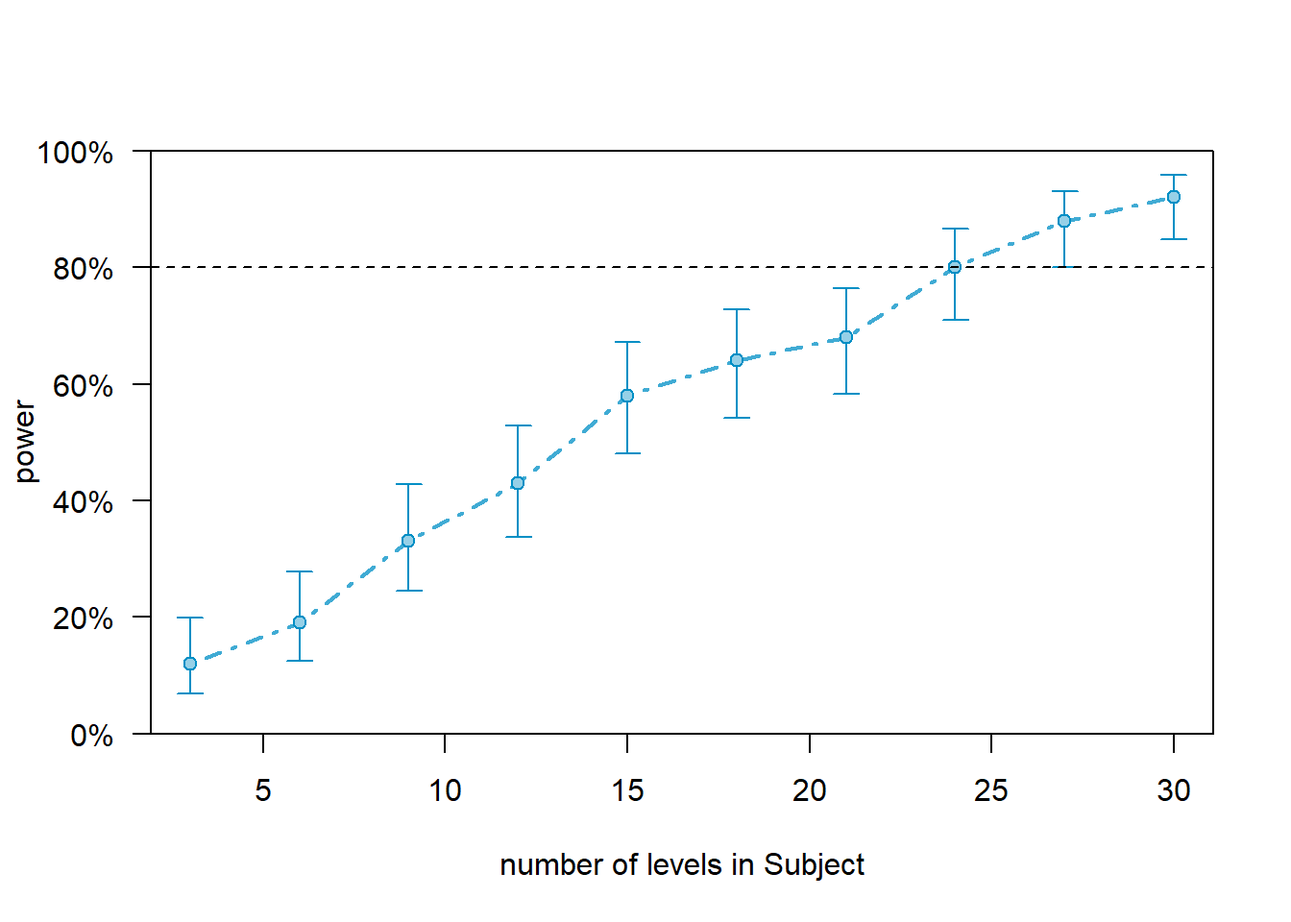
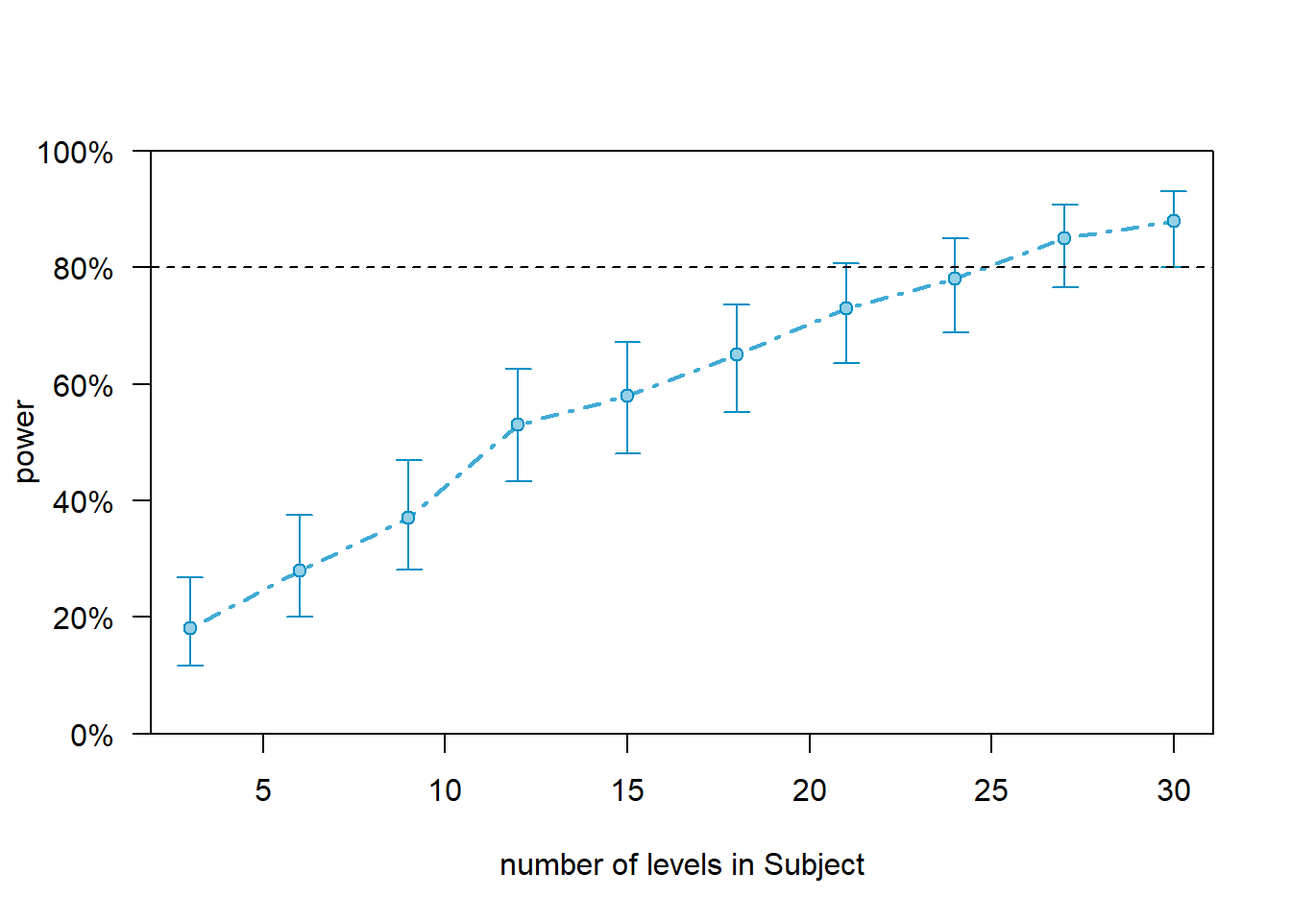
power analysis update

diff --git a/pwr.html b/pwr.html
@@ -14,7 +14,7 @@
 
 <meta name="author" content="Martin Schweinberger" />
 
-<meta name="date" content="2021-11-17" />
+<meta name="date" content="2021-12-19" />
 
 <title>Power Analysis in R</title>
 
@@ -537,6 +537,9 @@ div.tocify {
     <li>
       <a href="tagging.html">Tagging and Parsing</a>
     </li>
+    <li>
+      <a href="txtsum.html">Automated Text Summarization</a>
+    </li>
   </ul>
 </li>
 <li class="dropdown">
@@ -615,7 +618,7 @@ div.tocify {
 
 <h1 class="title toc-ignore">Power Analysis in R</h1>
 <h4 class="author">Martin Schweinberger</h4>
-<h4 class="date">2021-11-17</h4>
+<h4 class="date">2021-12-19</h4>
 
 </div>
 
@@ -634,20 +637,19 @@ div.tocify {
 <p><img src="https://slcladal.github.io/images/uq1.jpg" width="100%" /></p>
 <div id="introduction" class="section level1 unnumbered">
 <h1>Introduction</h1>
-<p>This tutorial introduces power analysis using R. The entire R markdown document for this tutorial can be downloaded <a href="https://slcladal.github.io/pwr.Rmd">here</a>. If you want to render the Rmarkdown notebook on your machine, i.e. knitting the document to a html or pdf file, you need to make sure that you have R installed and you also need to download the <a href="https://slcladal.github.io/bibliography.bib">bibliography file</a> and store it in the same folder where you store the Rmd file.</p>
-<p>The basis for the present tutorial is <span class="citation">Green and MacLeod (<a href="#ref-green2016simr" role="doc-biblioref">2016</a>)</span> (which you can find <a href="https://besjournals.onlinelibrary.wiley.com/doi/full/10.1111/2041-210X.12504">here</a>). <span class="citation">Green and MacLeod (<a href="#ref-green2016simr" role="doc-biblioref">2016</a>)</span> is a highly recommendable and thorough tutorial on performing power analysis in R. Recommendable literature on this topic are, e.g. <span class="citation">Arnold et al. (<a href="#ref-arnold2011simulation" role="doc-biblioref">2011</a>)</span> and <span class="citation">Johnson et al. (<a href="#ref-johnson2015power" role="doc-biblioref">2015</a>)</span> and <a href="https://www.journalofcognition.org/articles/10.5334/joc.10/">this tutorial</a>.</p>
+<p>This tutorial introduces power analysis using R. Power analysis is a method primarily used to determine the appropriate sample size for empirical studies.</p>
+<p>This tutorial is aimed at intermediate and advanced users of R with the aim of showcasing how to perform power analyses for mixed-effect models generated with the <code>lme4</code> package in R. The aim is not to provide a fully-fledged analysis but rather to show and exemplify a handy method for estimating the power of experimental and observational designs and how to implement this in R.</p>
 <div class="warning" style="padding:0.1em; background-color:#f2f2f2; color:#51247a">
 <span>
 <p style="margin-top:1em; text-align:center">
-<strong>Power analysis is a method primarily used to determine the appropriate sample size for empirical studies.</strong>
+The entire R Notebook for the tutorial can be downloaded <a href="https://slcladal.github.io/pwr.Rmd"><strong>here</strong></a>. If you want to render the R Notebook on your machine, i.e. knitting the document to html or a pdf, you need to make sure that you have R and RStudio installed and you also need to download the <a href="https://slcladal.github.io/bibliography.bib"><strong>bibliography file</strong></a> and store it in the same folder where you store the Rmd file. <br>
 </p>
 <p style="margin-left:1em;">
 </p>
 <p></span></p>
 </div>
 <p><br></p>
-<p>The aim of this tutorial is to showcase how to perform power analyses for Mixed-Effects Regression Models using the <code>lme4</code> package in R. The aim is not to provide a fully-fledged analysis but rather to show and exemplify a handy method to estimate power of experimental and observational designs and how to implement this in R.</p>
-<hr />
+<p>The basis for the present tutorial is <span class="citation">Green and MacLeod (<a href="#ref-green2016simr" role="doc-biblioref">2016</a>)</span> (which you can find <a href="https://besjournals.onlinelibrary.wiley.com/doi/full/10.1111/2041-210X.12504">here</a>). <span class="citation">Green and MacLeod (<a href="#ref-green2016simr" role="doc-biblioref">2016</a>)</span> is a highly recommendable and thorough tutorial on performing power analysis in R. Recommendable literature on this topic are, e.g. <span class="citation">Arnold et al. (<a href="#ref-arnold2011simulation" role="doc-biblioref">2011</a>)</span> and <span class="citation">Johnson et al. (<a href="#ref-johnson2015power" role="doc-biblioref">2015</a>)</span> and <a href="https://www.journalofcognition.org/articles/10.5334/joc.10/">this tutorial</a>.</p>
 <div class="warning" style="padding:0.1em; background-color:#f2f2f2; color:#51247a">
 <span>
 <p style="margin-top:1em; text-align:center">
@@ -657,7 +659,7 @@ div.tocify {
 </p>
 <p></span></p>
 </div>
-<hr />
+<p><br></p>
 <div id="what-determines-if-you-find-an-effect" class="section level2 unnumbered">
 <h2>What determines if you find an effect?</h2>
 <p>There are different factors that determine if a model finds an effect. The accuracy (i.e., the probability of finding an effect) depends on three main factors:</p>
@@ -690,8 +692,9 @@ options(stringsAsFactors = F)         # no automatic conversion of factors
 options(&quot;scipen&quot; = 100, &quot;digits&quot; = 4) # suppress math annotation
 options(max.print=1000)               # print max 1000 results
 # load packages
-library(tidyverse)
-library(lme4)
+library(tidyverse)</code></pre>
+<pre><code>## Warning: Paket &#39;readr&#39; wurde unter R Version 4.1.2 erstellt</code></pre>
+<pre class="r"><code>library(lme4)
 library(sjPlot)
 library(simr)
 library(DT)
@@ -926,8 +929,8 @@ Test
   dplyr::mutate_if(is.character, factor) %&gt;%
   dplyr::rename(AOI = 4)</code></pre>
 <p>The data looks like this.</p>
-<div id="htmlwidget-9715e2d32733f385da9e" style="width:100%;height:auto;" class="datatables html-widget"></div>
-<script type="application/json" data-for="htmlwidget-9715e2d32733f385da9e">{"x":{"filter":"none","vertical":false,"caption":"<caption>Overview of the data set.<\/caption>","data":[["Sub1","Sub1","Sub1","Sub1","Sub1","Sub1","Sub1","Sub1","Sub1","Sub1","Sub2","Sub2","Sub2","Sub2","Sub2","Sub2","Sub2","Sub2","Sub2","Sub2","Sub3","Sub3","Sub3","Sub3","Sub3","Sub3","Sub3","Sub3","Sub3","Sub3","Sub4","Sub4","Sub4","Sub4","Sub4","Sub4","Sub4","Sub4","Sub4","Sub4","Sub5","Sub5","Sub5","Sub5","Sub5","Sub5","Sub5","Sub5","Sub5","Sub5","Sub6","Sub6","Sub6","Sub6","Sub6","Sub6","Sub6","Sub6","Sub6","Sub6","Sub7","Sub7","Sub7","Sub7","Sub7","Sub7","Sub7","Sub7","Sub7","Sub7","Sub8","Sub8","Sub8","Sub8","Sub8","Sub8","Sub8","Sub8","Sub8","Sub8","Sub9","Sub9","Sub9","Sub9","Sub9","Sub9","Sub9","Sub9","Sub9","Sub9","Sub10","Sub10","Sub10","Sub10","Sub10","Sub10","Sub10","Sub10","Sub10","Sub10","Sub1","Sub1","Sub1","Sub1","Sub1","Sub1","Sub1","Sub1","Sub1","Sub1","Sub2","Sub2","Sub2","Sub2","Sub2","Sub2","Sub2","Sub2","Sub2","Sub2","Sub3","Sub3","Sub3","Sub3","Sub3","Sub3","Sub3","Sub3","Sub3","Sub3","Sub4","Sub4","Sub4","Sub4","Sub4","Sub4","Sub4","Sub4","Sub4","Sub4","Sub5","Sub5","Sub5","Sub5","Sub5","Sub5","Sub5","Sub5","Sub5","Sub5","Sub6","Sub6","Sub6","Sub6","Sub6","Sub6","Sub6","Sub6","Sub6","Sub6","Sub7","Sub7","Sub7","Sub7","Sub7","Sub7","Sub7","Sub7","Sub7","Sub7","Sub8","Sub8","Sub8","Sub8","Sub8","Sub8","Sub8","Sub8","Sub8","Sub8","Sub9","Sub9","Sub9","Sub9","Sub9","Sub9","Sub9","Sub9","Sub9","Sub9","Sub10","Sub10","Sub10","Sub10","Sub10","Sub10","Sub10","Sub10","Sub10","Sub10"],["Control","Control","Control","Control","Control","Control","Control","Control","Control","Control","Control","Control","Control","Control","Control","Control","Control","Control","Control","Control","Control","Control","Control","Control","Control","Control","Control","Control","Control","Control","Control","Control","Control","Control","Control","Control","Control","Control","Control","Control","Control","Control","Control","Control","Control","Control","Control","Control","Control","Control","Control","Control","Control","Control","Control","Control","Control","Control","Control","Control","Control","Control","Control","Control","Control","Control","Control","Control","Control","Control","Control","Control","Control","Control","Control","Control","Control","Control","Control","Control","Control","Control","Control","Control","Control","Control","Control","Control","Control","Control","Control","Control","Control","Control","Control","Control","Control","Control","Control","Control","Test","Test","Test","Test","Test","Test","Test","Test","Test","Test","Test","Test","Test","Test","Test","Test","Test","Test","Test","Test","Test","Test","Test","Test","Test","Test","Test","Test","Test","Test","Test","Test","Test","Test","Test","Test","Test","Test","Test","Test","Test","Test","Test","Test","Test","Test","Test","Test","Test","Test","Test","Test","Test","Test","Test","Test","Test","Test","Test","Test","Test","Test","Test","Test","Test","Test","Test","Test","Test","Test","Test","Test","Test","Test","Test","Test","Test","Test","Test","Test","Test","Test","Test","Test","Test","Test","Test","Test","Test","Test","Test","Test","Test","Test","Test","Test","Test","Test","Test","Test"],["1","2","3","4","5","6","7","8","9","10","1","2","3","4","5","6","7","8","9","10","1","2","3","4","5","6","7","8","9","10","1","2","3","4","5","6","7","8","9","10","1","2","3","4","5","6","7","8","9","10","1","2","3","4","5","6","7","8","9","10","1","2","3","4","5","6","7","8","9","10","1","2","3","4","5","6","7","8","9","10","1","2","3","4","5","6","7","8","9","10","1","2","3","4","5","6","7","8","9","10","1","2","3","4","5","6","7","8","9","10","1","2","3","4","5","6","7","8","9","10","1","2","3","4","5","6","7","8","9","10","1","2","3","4","5","6","7","8","9","10","1","2","3","4","5","6","7","8","9","10","1","2","3","4","5","6","7","8","9","10","1","2","3","4","5","6","7","8","9","10","1","2","3","4","5","6","7","8","9","10","1","2","3","4","5","6","7","8","9","10","1","2","3","4","5","6","7","8","9","10"],["NotAOI","AOI","AOI","AOI","AOI","AOI","AOI","NotAOI","AOI","AOI","AOI","AOI","AOI","AOI","NotAOI","AOI","NotAOI","NotAOI","NotAOI","NotAOI","NotAOI","AOI","NotAOI","NotAOI","AOI","AOI","AOI","NotAOI","AOI","NotAOI","NotAOI","AOI","AOI","NotAOI","AOI","AOI","AOI","AOI","NotAOI","NotAOI","AOI","AOI","AOI","NotAOI","NotAOI","NotAOI","NotAOI","AOI","NotAOI","AOI","AOI","AOI","AOI","NotAOI","AOI","AOI","AOI","NotAOI","NotAOI","NotAOI","NotAOI","NotAOI","NotAOI","AOI","NotAOI","AOI","AOI","AOI","NotAOI","NotAOI","AOI","AOI","AOI","AOI","NotAOI","NotAOI","NotAOI","AOI","NotAOI","AOI","AOI","NotAOI","AOI","NotAOI","NotAOI","AOI","AOI","AOI","NotAOI","AOI","AOI","AOI","AOI","AOI","AOI","AOI","NotAOI","AOI","NotAOI","AOI","AOI","NotAOI","NotAOI","AOI","NotAOI","AOI","AOI","AOI","AOI","AOI","NotAOI","AOI","NotAOI","AOI","AOI","NotAOI","AOI","AOI","AOI","AOI","NotAOI","AOI","AOI","AOI","AOI","NotAOI","NotAOI","NotAOI","NotAOI","NotAOI","AOI","AOI","AOI","AOI","AOI","AOI","NotAOI","AOI","AOI","NotAOI","NotAOI","NotAOI","AOI","NotAOI","NotAOI","AOI","AOI","AOI","AOI","NotAOI","NotAOI","AOI","AOI","NotAOI","AOI","AOI","AOI","AOI","AOI","NotAOI","AOI","AOI","NotAOI","AOI","AOI","AOI","NotAOI","AOI","NotAOI","NotAOI","AOI","NotAOI","AOI","NotAOI","AOI","AOI","AOI","NotAOI","AOI","AOI","AOI","AOI","AOI","NotAOI","AOI","AOI","AOI","AOI","AOI","AOI","NotAOI","AOI","NotAOI","AOI","AOI","AOI","NotAOI","NotAOI","AOI","AOI"]],"container":"<table class=\"display\">\n  <thead>\n    <tr>\n      <th>Subject<\/th>\n      <th>Condition<\/th>\n      <th>Item<\/th>\n      <th>AOI<\/th>\n    <\/tr>\n  <\/thead>\n<\/table>","options":{"pageLength":10,"scrollX":true,"order":[],"autoWidth":false,"orderClasses":false}},"evals":[],"jsHooks":[]}</script>
+<div id="htmlwidget-3f0d5abf00b4a8a3f8ed" style="width:100%;height:auto;" class="datatables html-widget"></div>
+<script type="application/json" data-for="htmlwidget-3f0d5abf00b4a8a3f8ed">{"x":{"filter":"none","vertical":false,"caption":"<caption>Overview of the data set.<\/caption>","data":[["Sub1","Sub1","Sub1","Sub1","Sub1","Sub1","Sub1","Sub1","Sub1","Sub1","Sub2","Sub2","Sub2","Sub2","Sub2","Sub2","Sub2","Sub2","Sub2","Sub2","Sub3","Sub3","Sub3","Sub3","Sub3","Sub3","Sub3","Sub3","Sub3","Sub3","Sub4","Sub4","Sub4","Sub4","Sub4","Sub4","Sub4","Sub4","Sub4","Sub4","Sub5","Sub5","Sub5","Sub5","Sub5","Sub5","Sub5","Sub5","Sub5","Sub5","Sub6","Sub6","Sub6","Sub6","Sub6","Sub6","Sub6","Sub6","Sub6","Sub6","Sub7","Sub7","Sub7","Sub7","Sub7","Sub7","Sub7","Sub7","Sub7","Sub7","Sub8","Sub8","Sub8","Sub8","Sub8","Sub8","Sub8","Sub8","Sub8","Sub8","Sub9","Sub9","Sub9","Sub9","Sub9","Sub9","Sub9","Sub9","Sub9","Sub9","Sub10","Sub10","Sub10","Sub10","Sub10","Sub10","Sub10","Sub10","Sub10","Sub10","Sub1","Sub1","Sub1","Sub1","Sub1","Sub1","Sub1","Sub1","Sub1","Sub1","Sub2","Sub2","Sub2","Sub2","Sub2","Sub2","Sub2","Sub2","Sub2","Sub2","Sub3","Sub3","Sub3","Sub3","Sub3","Sub3","Sub3","Sub3","Sub3","Sub3","Sub4","Sub4","Sub4","Sub4","Sub4","Sub4","Sub4","Sub4","Sub4","Sub4","Sub5","Sub5","Sub5","Sub5","Sub5","Sub5","Sub5","Sub5","Sub5","Sub5","Sub6","Sub6","Sub6","Sub6","Sub6","Sub6","Sub6","Sub6","Sub6","Sub6","Sub7","Sub7","Sub7","Sub7","Sub7","Sub7","Sub7","Sub7","Sub7","Sub7","Sub8","Sub8","Sub8","Sub8","Sub8","Sub8","Sub8","Sub8","Sub8","Sub8","Sub9","Sub9","Sub9","Sub9","Sub9","Sub9","Sub9","Sub9","Sub9","Sub9","Sub10","Sub10","Sub10","Sub10","Sub10","Sub10","Sub10","Sub10","Sub10","Sub10"],["Control","Control","Control","Control","Control","Control","Control","Control","Control","Control","Control","Control","Control","Control","Control","Control","Control","Control","Control","Control","Control","Control","Control","Control","Control","Control","Control","Control","Control","Control","Control","Control","Control","Control","Control","Control","Control","Control","Control","Control","Control","Control","Control","Control","Control","Control","Control","Control","Control","Control","Control","Control","Control","Control","Control","Control","Control","Control","Control","Control","Control","Control","Control","Control","Control","Control","Control","Control","Control","Control","Control","Control","Control","Control","Control","Control","Control","Control","Control","Control","Control","Control","Control","Control","Control","Control","Control","Control","Control","Control","Control","Control","Control","Control","Control","Control","Control","Control","Control","Control","Test","Test","Test","Test","Test","Test","Test","Test","Test","Test","Test","Test","Test","Test","Test","Test","Test","Test","Test","Test","Test","Test","Test","Test","Test","Test","Test","Test","Test","Test","Test","Test","Test","Test","Test","Test","Test","Test","Test","Test","Test","Test","Test","Test","Test","Test","Test","Test","Test","Test","Test","Test","Test","Test","Test","Test","Test","Test","Test","Test","Test","Test","Test","Test","Test","Test","Test","Test","Test","Test","Test","Test","Test","Test","Test","Test","Test","Test","Test","Test","Test","Test","Test","Test","Test","Test","Test","Test","Test","Test","Test","Test","Test","Test","Test","Test","Test","Test","Test","Test"],["1","2","3","4","5","6","7","8","9","10","1","2","3","4","5","6","7","8","9","10","1","2","3","4","5","6","7","8","9","10","1","2","3","4","5","6","7","8","9","10","1","2","3","4","5","6","7","8","9","10","1","2","3","4","5","6","7","8","9","10","1","2","3","4","5","6","7","8","9","10","1","2","3","4","5","6","7","8","9","10","1","2","3","4","5","6","7","8","9","10","1","2","3","4","5","6","7","8","9","10","1","2","3","4","5","6","7","8","9","10","1","2","3","4","5","6","7","8","9","10","1","2","3","4","5","6","7","8","9","10","1","2","3","4","5","6","7","8","9","10","1","2","3","4","5","6","7","8","9","10","1","2","3","4","5","6","7","8","9","10","1","2","3","4","5","6","7","8","9","10","1","2","3","4","5","6","7","8","9","10","1","2","3","4","5","6","7","8","9","10","1","2","3","4","5","6","7","8","9","10"],["NotAOI","NotAOI","NotAOI","NotAOI","NotAOI","NotAOI","AOI","NotAOI","AOI","AOI","NotAOI","NotAOI","NotAOI","AOI","AOI","NotAOI","AOI","NotAOI","AOI","NotAOI","NotAOI","NotAOI","NotAOI","NotAOI","AOI","AOI","AOI","NotAOI","AOI","AOI","AOI","NotAOI","AOI","AOI","AOI","AOI","NotAOI","NotAOI","AOI","AOI","NotAOI","NotAOI","NotAOI","NotAOI","AOI","AOI","NotAOI","AOI","AOI","NotAOI","AOI","AOI","NotAOI","AOI","NotAOI","AOI","NotAOI","NotAOI","AOI","NotAOI","NotAOI","NotAOI","AOI","NotAOI","NotAOI","NotAOI","AOI","NotAOI","NotAOI","AOI","AOI","NotAOI","NotAOI","AOI","AOI","AOI","AOI","NotAOI","AOI","NotAOI","NotAOI","NotAOI","AOI","NotAOI","AOI","NotAOI","NotAOI","AOI","NotAOI","AOI","AOI","NotAOI","AOI","NotAOI","AOI","AOI","AOI","NotAOI","NotAOI","NotAOI","AOI","AOI","NotAOI","NotAOI","NotAOI","AOI","NotAOI","NotAOI","AOI","AOI","NotAOI","AOI","NotAOI","NotAOI","AOI","NotAOI","NotAOI","NotAOI","NotAOI","NotAOI","NotAOI","AOI","AOI","NotAOI","AOI","NotAOI","AOI","NotAOI","AOI","AOI","NotAOI","NotAOI","NotAOI","NotAOI","NotAOI","NotAOI","AOI","AOI","AOI","AOI","AOI","NotAOI","AOI","AOI","NotAOI","AOI","NotAOI","NotAOI","NotAOI","NotAOI","NotAOI","AOI","AOI","AOI","NotAOI","AOI","AOI","NotAOI","NotAOI","AOI","AOI","AOI","NotAOI","NotAOI","AOI","NotAOI","AOI","AOI","NotAOI","AOI","NotAOI","AOI","NotAOI","AOI","AOI","AOI","AOI","AOI","AOI","AOI","NotAOI","AOI","AOI","AOI","AOI","NotAOI","AOI","AOI","AOI","AOI","AOI","AOI","AOI","AOI","AOI","NotAOI","AOI","AOI","AOI","AOI"]],"container":"<table class=\"display\">\n  <thead>\n    <tr>\n      <th>Subject<\/th>\n      <th>Condition<\/th>\n      <th>Item<\/th>\n      <th>AOI<\/th>\n    <\/tr>\n  <\/thead>\n<\/table>","options":{"pageLength":10,"scrollX":true,"order":[],"autoWidth":false,"orderClasses":false}},"evals":[],"jsHooks":[]}</script>
 </div>
 </div>
 <div id="post-hoc-power-analysis" class="section level1">
@@ -958,30 +961,28 @@ summary(m1)</code></pre>
 ##    Data: simdat
 ## 
 ##      AIC      BIC   logLik deviance df.resid 
-##    271.6    284.8   -131.8    263.6      196 
+##    281.7    294.9   -136.9    273.7      196 
 ## 
 ## Scaled residuals: 
 ##    Min     1Q Median     3Q    Max 
-## -0.834 -0.834 -0.718  1.200  1.393 
+## -1.207 -0.903 -0.772  0.983  1.276 
 ## 
 ## Random effects:
-##  Groups  Name        Variance         Std.Dev. 
-##  Subject (Intercept) 0.00000000000004 0.0000002
-##  Item    (Intercept) 0.00000000000000 0.0000000
+##  Groups  Name        Variance Std.Dev.
+##  Subject (Intercept) 0.0581   0.241   
+##  Item    (Intercept) 0.0106   0.103   
 ## Number of obs: 200, groups:  Subject, 10; Item, 10
 ## 
 ## Fixed effects:
 ##               Estimate Std. Error z value Pr(&gt;|z|)  
-## (Intercept)     -0.364      0.203   -1.79    0.073 .
-## ConditionTest   -0.299      0.293   -1.02    0.307  
+## (Intercept)      0.163      0.219    0.75    0.456  
+## ConditionTest   -0.491      0.288   -1.71    0.088 .
 ## ---
 ## Signif. codes:  0 &#39;***&#39; 0.001 &#39;**&#39; 0.01 &#39;*&#39; 0.05 &#39;.&#39; 0.1 &#39; &#39; 1
 ## 
 ## Correlation of Fixed Effects:
 ##             (Intr)
-## ConditinTst -0.694
-## optimizer (Nelder_Mead) convergence code: 0 (OK)
-## boundary (singular) fit: see ?isSingular</code></pre>
+## ConditinTst -0.651</code></pre>
 <p>We now check the effect sizes of the predictors in the model. We can do this by displaying the results of the model using the <code>tab_model</code> function from the <code>sjPlot</code> package.</p>
 <pre class="r"><code># tabulate results
 sjPlot::tab_model(m1)</code></pre>
@@ -1013,13 +1014,13 @@ p
 (Intercept)
 </td>
 <td style=" padding:0.2cm; text-align:left; vertical-align:top; text-align:center;  ">
-0.69
+1.18
 </td>
 <td style=" padding:0.2cm; text-align:left; vertical-align:top; text-align:center;  ">
-0.47 – 1.04
+0.77 – 1.81
 </td>
 <td style=" padding:0.2cm; text-align:left; vertical-align:top; text-align:center;  ">
-0.073
+0.456
 </td>
 </tr>
 <tr>
@@ -1027,13 +1028,13 @@ p
 Condition [Test]
 </td>
 <td style=" padding:0.2cm; text-align:left; vertical-align:top; text-align:center;  ">
-0.74
+0.61
 </td>
 <td style=" padding:0.2cm; text-align:left; vertical-align:top; text-align:center;  ">
-0.42 – 1.32
+0.35 – 1.08
 </td>
 <td style=" padding:0.2cm; text-align:left; vertical-align:top; text-align:center;  ">
-0.307
+0.088
 </td>
 </tr>
 <tr>
@@ -1053,14 +1054,21 @@ Random Effects
 τ<sub>00</sub> <sub>Subject</sub>
 </td>
 <td style=" padding:0.2cm; text-align:left; vertical-align:top; padding-top:0.1cm; padding-bottom:0.1cm; text-align:left;" colspan="3">
-0.00
+0.06
 </td>
 <tr>
 <td style=" padding:0.2cm; text-align:left; vertical-align:top; text-align:left; padding-top:0.1cm; padding-bottom:0.1cm;">
 τ<sub>00</sub> <sub>Item</sub>
 </td>
 <td style=" padding:0.2cm; text-align:left; vertical-align:top; padding-top:0.1cm; padding-bottom:0.1cm; text-align:left;" colspan="3">
-0.00
+0.01
+</td>
+<tr>
+<td style=" padding:0.2cm; text-align:left; vertical-align:top; text-align:left; padding-top:0.1cm; padding-bottom:0.1cm;">
+ICC
+</td>
+<td style=" padding:0.2cm; text-align:left; vertical-align:top; padding-top:0.1cm; padding-bottom:0.1cm; text-align:left;" colspan="3">
+0.02
 </td>
 <tr>
 <td style=" padding:0.2cm; text-align:left; vertical-align:top; text-align:left; padding-top:0.1cm; padding-bottom:0.1cm;">
@@ -1089,7 +1097,7 @@ Observations
 Marginal R<sup>2</sup> / Conditional R<sup>2</sup>
 </td>
 <td style=" padding:0.2cm; text-align:left; vertical-align:top; padding-top:0.1cm; padding-bottom:0.1cm; text-align:left;" colspan="3">
-0.007 / NA
+0.018 / 0.038
 </td>
 </tr>
 </table>
@@ -1113,18 +1121,18 @@ rsim0 &lt;- powerSim(m1, fixed(&quot;ConditionTest&quot;, &quot;z&quot;), nsim=1
 <pre class="r"><code># inspect results
 rsim0</code></pre>
 <pre><code>## Power for predictor &#39;ConditionTest&#39;, (95% confidence interval):
-##       15.00% ( 8.65, 23.53)
+##       43.00% (33.14, 53.29)
 ## 
 ## Test: z-test
-##       Effect size for ConditionTest is -0.30
+##       Effect size for ConditionTest is -0.49
 ## 
-## Based on 100 simulations, (3 warnings, 0 errors)
+## Based on 100 simulations, (0 warnings, 0 errors)
 ## alpha = 0.05, nrow = 200
 ## 
-## Time elapsed: 0 h 0 m 16 s
+## Time elapsed: 0 h 0 m 18 s
 ## 
 ## nb: result might be an observed power calculation</code></pre>
-<p>The results of the power analysis show that, given the data at hand, the model would have detected the effect of <code>Conidition:Test</code> with a probability of 15 percent. However, and as stated above, the results of such post-hoc power calculations (where the target effect size comes from the data) give misleading results <span class="citation">(Hoenig and Heisey <a href="#ref-hoenig2001abuse" role="doc-biblioref">2001</a>)</span> and should thus be treated with extreme care!</p>
+<p>The results of the power analysis show that, given the data at hand, the model would have detected the effect of <code>Conidition:Test</code> with a probability of 43 percent. However, and as stated above, the results of such post-hoc power calculations (where the target effect size comes from the data) give misleading results <span class="citation">(Hoenig and Heisey <a href="#ref-hoenig2001abuse" role="doc-biblioref">2001</a>)</span> and should thus be treated with extreme care!</p>
 </div>
 <div id="power-analysis-of-set-effects" class="section level1">
 <h1><span class="header-section-number">2</span> Power Analysis of Set Effects</h1>
@@ -1143,7 +1151,7 @@ rsim0</code></pre>
 <pre class="r"><code>estimatesfixedeffects &lt;- fixef(m1)
 exp(estimatesfixedeffects)</code></pre>
 <pre><code>##   (Intercept) ConditionTest 
-##        0.6949        0.7413</code></pre>
+##        1.1772        0.6118</code></pre>
 <p>We can see that the effect is rather small which makes it very hard to detect an effect. We will now change the size of the effect of ConditionTest to represent a truly <em>small</em> effect, i.e. on the brink of being noise but being just strong enough to be considered small. In other words, we will set the effect so that its odds ratio is exactly 1.68.</p>
 <pre class="r"><code># set seed for replicability
 set.seed(12345)
@@ -1152,7 +1160,7 @@ fixef(m1)[&quot;ConditionTest&quot;] &lt;- 0.519
 estimatesfixedeffects &lt;- fixef(m1)
 exp(estimatesfixedeffects)</code></pre>
 <pre><code>##   (Intercept) ConditionTest 
-##        0.6949        1.6803</code></pre>
+##         1.177         1.680</code></pre>
 <p>Now we can test if the sample size of the model is sufficient to find a small effect.</p>
 <pre class="r"><code># set seed for replicability
 set.seed(12345)
@@ -1162,16 +1170,16 @@ rsim1 &lt;- powerSim(m1, fixed(&quot;ConditionTest&quot;, &quot;z&quot;), nsim=1
 <pre class="r"><code># show results
 rsim1</code></pre>
 <pre><code>## Power for predictor &#39;ConditionTest&#39;, (95% confidence interval):
-##       55.00% (44.73, 64.97)
+##       43.00% (33.14, 53.29)
 ## 
 ## Test: z-test
 ##       Effect size for ConditionTest is 0.52
 ## 
-## Based on 100 simulations, (0 warnings, 0 errors)
+## Based on 100 simulations, (3 warnings, 0 errors)
 ## alpha = 0.05, nrow = 200
 ## 
-## Time elapsed: 0 h 0 m 16 s</code></pre>
-<p>The power analysis shows that the data is sufficient to detect a small effect for Condition:Test with 55 percent accuracy.</p>
+## Time elapsed: 0 h 0 m 17 s</code></pre>
+<p>The power analysis shows that the data is sufficient to detect a small effect for Condition:Test with 43 percent accuracy.</p>
 </div>
 <div id="power-analysis-of-extended-data" class="section level1">
 <h1><span class="header-section-number">3</span> Power Analysis of Extended Data</h1>
@@ -1184,16 +1192,16 @@ rsim2 &lt;- powerSim(m2, fixed(&quot;ConditionTest&quot;, &quot;z&quot;), nsim=1
 <pre class="r"><code># show results
 rsim2</code></pre>
 <pre><code>## Power for predictor &#39;ConditionTest&#39;, (95% confidence interval):
-##       84.00% (75.32, 90.57)
+##       80.00% (70.82, 87.33)
 ## 
 ## Test: z-test
 ##       Effect size for ConditionTest is 0.52
 ## 
-## Based on 100 simulations, (1 warning, 0 errors)
+## Based on 100 simulations, (3 warnings, 0 errors)
 ## alpha = 0.05, nrow = 600
 ## 
-## Time elapsed: 0 h 0 m 27 s</code></pre>
-<p>By increasing the number of items to 30, we would now be able to detect a small effect (d=.2) with an accuracy of 84 percent. This means that we would have to add more items as 30 is not yet sufficient.</p>
+## Time elapsed: 0 h 0 m 29 s</code></pre>
+<p>By increasing the number of items to 30, we would now be able to detect a small effect (d=.2) with an accuracy of 80 percent. This means that we would have to add more items as 30 is not yet sufficient.</p>
 </div>
 <div id="power-analysis-for-ranges" class="section level1">
 <h1><span class="header-section-number">4</span> Power Analysis for Ranges</h1>
@@ -1204,18 +1212,18 @@ rsim2</code></pre>
 print(pc2)</code></pre>
 <pre><code>## Power for predictor &#39;ConditionTest&#39;, (95% confidence interval),
 ## by number of levels in Item:
-##       3: 23.00% (15.17, 32.49) - 60 rows
-##       6: 31.00% (22.13, 41.03) - 120 rows
-##       9: 36.00% (26.64, 46.21) - 180 rows
-##      12: 44.00% (34.08, 54.28) - 240 rows
-##      15: 55.00% (44.73, 64.97) - 300 rows
-##      18: 68.00% (57.92, 76.98) - 360 rows
-##      21: 75.00% (65.34, 83.12) - 420 rows
-##      24: 75.00% (65.34, 83.12) - 480 rows
-##      27: 81.00% (71.93, 88.16) - 540 rows
-##      30: 81.00% (71.93, 88.16) - 600 rows
+##       3: 20.00% (12.67, 29.18) - 60 rows
+##       6: 29.00% (20.36, 38.93) - 120 rows
+##       9: 42.00% (32.20, 52.29) - 180 rows
+##      12: 51.00% (40.80, 61.14) - 240 rows
+##      15: 58.00% (47.71, 67.80) - 300 rows
+##      18: 66.00% (55.85, 75.18) - 360 rows
+##      21: 70.00% (60.02, 78.76) - 420 rows
+##      24: 71.00% (61.07, 79.64) - 480 rows
+##      27: 85.00% (76.47, 91.35) - 540 rows
+##      30: 84.00% (75.32, 90.57) - 600 rows
 ## 
-## Time elapsed: 0 h 2 m 57 s</code></pre>
+## Time elapsed: 0 h 2 m 52 s</code></pre>
 <p>In addition, we can plot the results as follows:</p>
 <pre class="r"><code>plot(pc2)</code></pre>
 <p><img src="pwr_files/figure-html/pwr17-1.png" width="672" /></p>
@@ -1228,18 +1236,18 @@ pc3 &lt;- powerCurve(m3, fixed(&quot;ConditionTest&quot;, &quot;z&quot;), along=
 print(pc3)</code></pre>
 <pre><code>## Power for predictor &#39;ConditionTest&#39;, (95% confidence interval),
 ## by number of levels in Subject:
-##       3: 12.00% ( 6.36, 20.02) - 60 rows
-##       6: 19.00% (11.84, 28.07) - 120 rows
-##       9: 33.00% (23.92, 43.12) - 180 rows
-##      12: 43.00% (33.14, 53.29) - 240 rows
+##       3: 18.00% (11.03, 26.95) - 60 rows
+##       6: 28.00% (19.48, 37.87) - 120 rows
+##       9: 37.00% (27.56, 47.24) - 180 rows
+##      12: 53.00% (42.76, 63.06) - 240 rows
 ##      15: 58.00% (47.71, 67.80) - 300 rows
-##      18: 64.00% (53.79, 73.36) - 360 rows
-##      21: 68.00% (57.92, 76.98) - 420 rows
-##      24: 80.00% (70.82, 87.33) - 480 rows
-##      27: 88.00% (79.98, 93.64) - 540 rows
-##      30: 92.00% (84.84, 96.48) - 600 rows
+##      18: 65.00% (54.82, 74.27) - 360 rows
+##      21: 73.00% (63.20, 81.39) - 420 rows
+##      24: 78.00% (68.61, 85.67) - 480 rows
+##      27: 85.00% (76.47, 91.35) - 540 rows
+##      30: 88.00% (79.98, 93.64) - 600 rows
 ## 
-## Time elapsed: 0 h 2 m 51 s</code></pre>
+## Time elapsed: 0 h 2 m 52 s</code></pre>
 <p>Again, we can also visualize the results.</p>
 <pre class="r"><code># visualize results
 plot(pc3) </code></pre>
@@ -1254,11 +1262,11 @@ pc4 &lt;- powerCurve(m4, fixed(&quot;ConditionTest&quot;, &quot;z&quot;), within
 print(pc4)</code></pre>
 <pre><code>## Power for predictor &#39;ConditionTest&#39;, (95% confidence interval),
 ## by number of observations within Item+Subject:
-##       5: 84.00% (75.32, 90.57) - 500 rows
-##      10: 100.0% (96.38, 100.0) - 1000 rows
+##       5: 81.00% (71.93, 88.16) - 500 rows
+##      10: 98.00% (92.96, 99.76) - 1000 rows
 ##      15: 100.0% (96.38, 100.0) - 1500 rows
 ## 
-## Time elapsed: 0 h 1 m 41 s</code></pre>
+## Time elapsed: 0 h 1 m 51 s</code></pre>
 <pre class="r"><code># show results
 plot(pc4)</code></pre>
 <p><img src="pwr_files/figure-html/pwr23-1.png" width="672" /></p>
@@ -1266,7 +1274,7 @@ plot(pc4)</code></pre>
 </div>
 <div id="citation-session-info" class="section level1 unnumbered">
 <h1>Citation &amp; Session Info</h1>
-<p>Schweinberger, Martin. 2021. <em>Power Analysis in R</em>. Brisbane: The University of Queensland. url: <a href="https://slcladal.github.io/pwr.html" class="uri">https://slcladal.github.io/pwr.html</a> (Version 2021.11.17).</p>
+<p>Schweinberger, Martin. 2021. <em>Power Analysis in R</em>. Brisbane: The University of Queensland. url: <a href="https://slcladal.github.io/pwr.html" class="uri">https://slcladal.github.io/pwr.html</a> (Version 2021.12.19).</p>
 <pre><code>@manual{schweinberger2021pwr,
   author = {Schweinberger, Martin},
   title = {Power Analysis in R},
@@ -1274,7 +1282,7 @@ plot(pc4)</code></pre>
   year = {2021},
   organization = &quot;The University of Queensland, Australia. School of Languages and Cultures},
   address = {Brisbane},
-  edition = {2021.11.17}
+  edition = {2021.12.19}
 }</code></pre>
 <pre class="r"><code>sessionInfo()</code></pre>
 <pre><code>## R version 4.1.1 (2021-08-10)
@@ -1295,7 +1303,7 @@ plot(pc4)</code></pre>
 ##  [1] entity_0.1.0    flextable_0.6.9 knitr_1.36      DT_0.19        
 ##  [5] simr_1.0.5      sjPlot_2.8.9    lme4_1.1-27.1   Matrix_1.3-4   
 ##  [9] forcats_0.5.1   stringr_1.4.0   dplyr_1.0.7     purrr_0.3.4    
-## [13] readr_2.0.2     tidyr_1.1.4     tibble_3.1.5    ggplot2_3.3.5  
+## [13] readr_2.1.1     tidyr_1.1.4     tibble_3.1.5    ggplot2_3.3.5  
 ## [17] tidyverse_1.3.1
 ## 
 ## loaded via a namespace (and not attached):
@@ -1320,7 +1328,7 @@ plot(pc4)</code></pre>
 ##  [73] pkgconfig_2.0.3   evaluate_0.14     lattice_0.20-44   htmlwidgets_1.5.4
 ##  [77] tidyselect_1.1.1  plyr_1.8.6        magrittr_2.0.1    R6_2.5.1         
 ##  [81] generics_0.1.1    multcomp_1.4-17   RLRsim_3.1-6      DBI_1.1.1        
-##  [85] pillar_1.6.4      haven_2.4.3       foreign_0.8-81    withr_2.4.2      
+##  [85] pillar_1.6.4      haven_2.4.3       foreign_0.8-81    withr_2.4.3      
 ##  [89] mgcv_1.8-36       survival_3.2-11   datawizard_0.2.1  abind_1.4-5      
 ##  [93] performance_0.8.0 modelr_0.1.8      crayon_1.4.2      car_3.0-11       
 ##  [97] uuid_1.0-2        utf8_1.2.2        officer_0.4.0     tzdb_0.2.0       
